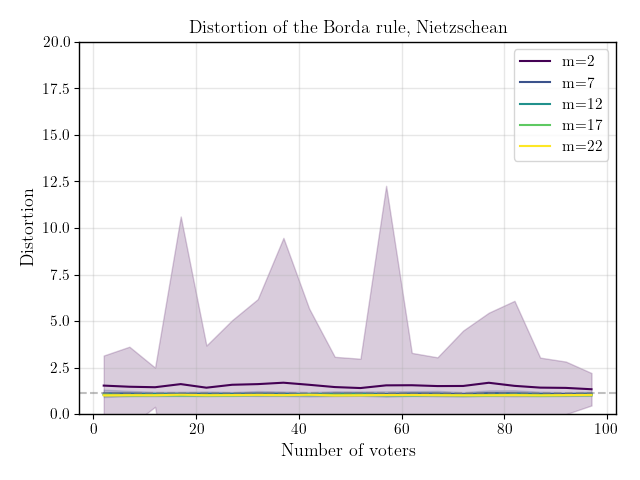
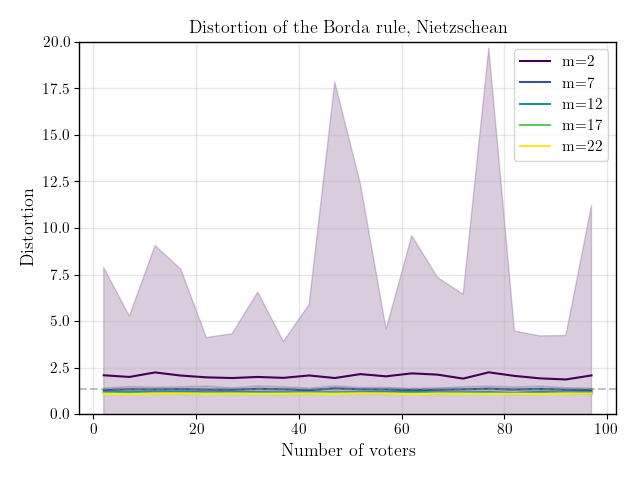
rerunning all figures

Changed region(s): [[0.1562, 0.0938, 0.9375, 0.875], [0.3125, 0.6562, 0.375, 0.7188]]

diff --git a/src/main.py b/src/main.py
@@ -2,7 +2,7 @@ import matplotlib.pyplot as plt
 import numpy as np
 from pref_voting.c1_methods import copeland
 from prefsampling.point.ball import Callable
-from voting_rules import utilitarian_optimal, nietzschean_optimal, utilities_to_np
+from voting_rules import utilitarian_optimal, nietzschean_optimal, rawlsian_optimal
 from pref_voting import voting_methods as vr
 from pref_voting import generate_profiles as gp
 from pref_voting import generate_utility_profiles as gup
@@ -91,7 +91,7 @@ def plot_distortions(distortions, title, xlabel, ylabel, n_vals, m_vals):
 
 
     plt.figure()
-    colors = plt.cm.get_cmap("viridis")(np.linspace(0, 1, mean_distortions.shape[1]))
+    colors = plt.get_cmap("viridis")(np.linspace(0, 1, mean_distortions.shape[1]))
 
     for m in range(mean_distortions.shape[1]):
         plt.plot(n_vals, mean_distortions[:, m], color=colors[m], label=f'm={m_vals[m]}')
@@ -156,11 +156,20 @@ def main():
     copeland_distortion_nietz = evaluate_rule(vr_wrapper(vr.copeland), nietzschean_optimal, n_vals, m_vals, n_trails)
     black_distortion_nietz = evaluate_rule(vr_wrapper(vr.blacks), nietzschean_optimal, n_vals, m_vals, n_trails)
 
+    borda_distortion_rawlsian= evaluate_rule(vr_wrapper(vr.borda), rawlsian_optimal, n_vals, m_vals, n_trails)
+    plurarity_distortion_rawlsian = evaluate_rule(vr_wrapper(vr.plurality), rawlsian_optimal, n_vals, m_vals, n_trails)
+    copeland_distortion_rawlsian = evaluate_rule(vr_wrapper(vr.copeland), rawlsian_optimal, n_vals, m_vals, n_trails)
+    black_distortion_rawlsian = evaluate_rule(vr_wrapper(vr.blacks), rawlsian_optimal, n_vals, m_vals, n_trails)
+
+    plot_distortions(borda_distortion_rawlsian, 'Distortion of the Borda rule, rawlsian', 'Number of voters', 'Distortion', n_vals, m_vals)
+    plot_distortions(plurarity_distortion_rawlsian, 'Distortion of the Plurality rule, rawlsian', 'Number of voters', 'Distortion', n_vals, m_vals)
+    plot_distortions(copeland_distortion_rawlsian, 'Distortion of Copelands\' rule, rawlsian', 'Number of voters', 'Distortion', n_vals, m_vals)
+    plot_distortions(black_distortion_rawlsian, 'Distortion of Blacks\' rule, rawlsian', 'Number of voters', 'Distortion', n_vals, m_vals)
 
     plot_distortions(borda_distortion_nietz, 'Distortion of the Borda rule, Nietzschean', 'Number of voters', 'Distortion', n_vals, m_vals)
-    plot_distortions(plurarity_distortion_nietz, 'Distortion of the rule, Nietzschean', 'Number of voters', 'Distortion', n_vals, m_vals)
-    plot_distortions(copeland_distortion_nietz, 'Distortion of the Borda rule, Nietzschean', 'Number of voters', 'Distortion', n_vals, m_vals)
-    plot_distortions(black_distortion_nietz, 'Distortion of the Borda rule, Nietzschean', 'Number of voters', 'Distortion', n_vals, m_vals)
+    plot_distortions(plurarity_distortion_nietz, 'Distortion of the Plurality rule, Nietzschean', 'Number of voters', 'Distortion', n_vals, m_vals)
+    plot_distortions(copeland_distortion_nietz, 'Distortion of Copelands\' rule, Nietzschean', 'Number of voters', 'Distortion', n_vals, m_vals)
+    plot_distortions(black_distortion_nietz, 'Distortion of Blacks\' rule, Nietzschean', 'Number of voters', 'Distortion', n_vals, m_vals)
 
     plot_distortions(borda_distortion_utilitarian, 'Distortion of the Borda rule, Utilitarian', 'Number of voters', 'Distortion', n_vals, m_vals)
     plot_distortions(plurarity_distortion_utilitarian, 'Distortion of the Plurality rule, Utilitarian', 'Number of voters', 'Distortion', n_vals, m_vals)

diff --git a/src/voting_rules.py b/src/voting_rules.py
@@ -18,12 +18,12 @@ def utilitarian_optimal(profile):
 
 def nietzschean_optimal(profile):
     """
-    Returns the optimal winner, such that the utility of any individual voter is maximized
+    Returns the optimal winner, such that the utility of least happy voter is maximized
     """
-    return np.argmax(np.max(profile, axis=0))
+    return np.argmax(np.max(utilities_to_np(profile), axis=0))
 
 def rawlsian_optimal(profile):
     """
     Returns the optimal winner, such that the utility of any individual voter is maximized
     """
-    return np.argmax(np.max(profile, axis=0))
+    return np.argmax(np.min(utilities_to_np(profile), axis=0))
